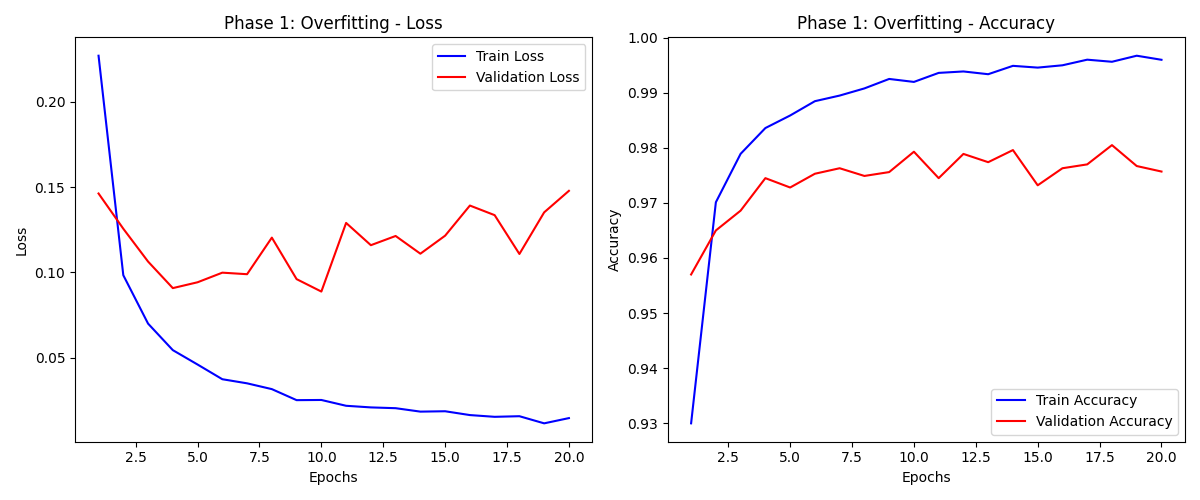
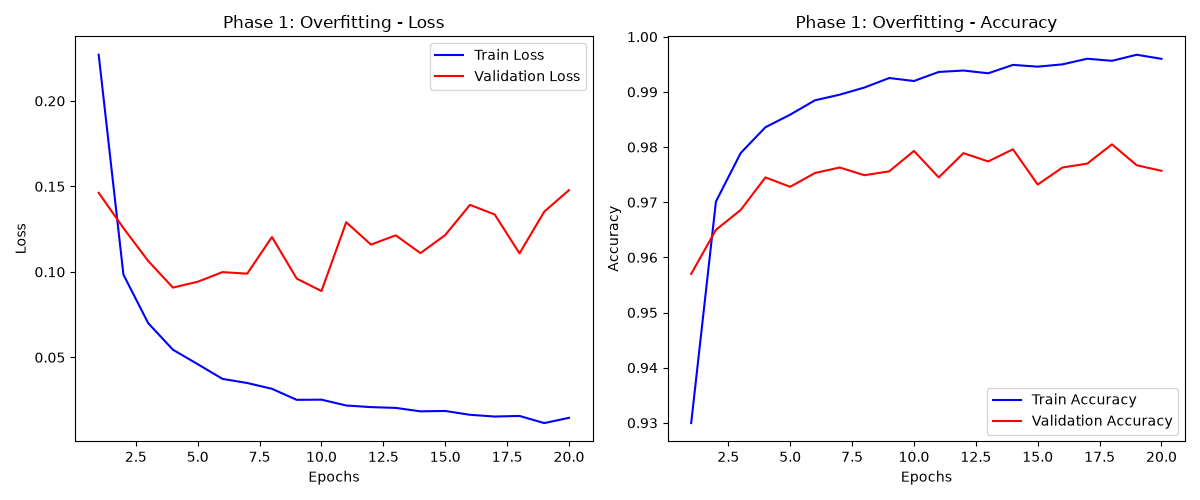
Update report and script with model comparison and accuracies

diff --git a/mnist_overfitting.py b/mnist_overfitting.py
@@ -46,6 +46,28 @@ class OverfittingMLP(nn.Module):
         return logits
 
 
+class NormalMLP(nn.Module):
+    """
+    A standard, smaller Multi-Layer Perceptron designed to serve as a baseline.
+    It has sufficient capacity to learn MNIST but is less prone to extreme overfitting.
+    """
+    def __init__(self):
+        super(NormalMLP, self).__init__()
+        self.flatten = nn.Flatten()
+        
+        self.network = nn.Sequential(
+            nn.Linear(28 * 28, 128),
+            nn.ReLU(),
+            nn.Linear(128, 64),
+            nn.ReLU(),
+            nn.Linear(64, 10)
+        )
+
+    def forward(self, x):
+        x = self.flatten(x)
+        return self.network(x)
+
+
 # ---------------------------------------------------------
 # 2. Data Preparation Function
 # ---------------------------------------------------------
@@ -233,12 +255,62 @@ def plot_history(history, title, filename):
     print(f"Plot saved to {filename}")
     plt.close()
 
+def plot_comparison(hist_dict, title, filename):
+    plt.figure(figsize=(12, 5))
+    
+    # Plot Validation Loss
+    plt.subplot(1, 2, 1)
+    for label, hist in hist_dict.items():
+        epochs = range(1, len(hist['val_loss']) + 1)
+        plt.plot(epochs, hist['val_loss'], label=label)
+    plt.title(f'{title} - Validation Loss')
+    plt.xlabel('Epochs')
+    plt.ylabel('Loss')
+    plt.legend()
+    
+    # Plot Validation Accuracy
+    plt.subplot(1, 2, 2)
+    for label, hist in hist_dict.items():
+        epochs = range(1, len(hist['val_acc']) + 1)
+        plt.plot(epochs, hist['val_acc'], label=label)
+    plt.title(f'{title} - Validation Accuracy')
+    plt.xlabel('Epochs')
+    plt.ylabel('Accuracy')
+    plt.legend()
+    
+    plt.tight_layout()
+    plt.savefig(filename)
+    print(f"Comparison plot saved to {filename}")
+    plt.close()
 
 # ---------------------------------------------------------
 # Main Execution
 # ---------------------------------------------------------
 if __name__ == "__main__":
     epochs = 20
+
+    print("="*50)
+    print("PHASE 0: BASELINE (NORMAL) MODEL")
+    print("="*50)
+    
+    # 1. Data without augmentation
+    train_loader_base, val_loader_base, test_loader = get_dataloaders(use_augmentation=False)
+    
+    # 2. Instantiate and train model
+    model_normal = NormalMLP().to(device)
+    print("Training Normal Baseline Model...")
+    history_normal = train_model(
+        model=model_normal, 
+        train_loader=train_loader_base, 
+        val_loader=val_loader_base, 
+        epochs=epochs, 
+        weight_decay=0.0
+    )
+    
+    # 3. Test and plot
+    test_model(model_normal, test_loader, name="Normal Model")
+    plot_history(history_normal, "Phase 0: Baseline Normal Model", "phase_0_-_normal.png")
+    print("\n")
 
     print("="*50)
     print("PHASE 1: OVERFITTING THE MODEL")
@@ -284,5 +356,16 @@ if __name__ == "__main__":
     # 3. Test and plot
     test_model(model_regularized, test_loader, name="Regularized Model")
     plot_history(history_regularized, "Phase 2: Regularized", "phase_2_-_regularization.png")
+    
+    print("\n" + "="*50)
+    print("PHASE 3: COMPARING ALL MODELS")
+    print("="*50)
+    
+    histories = {
+        "Baseline (Normal)": history_normal,
+        "Overfitted": history_overfit,
+        "Regularized": history_regularized
+    }
+    plot_comparison(histories, "Model Comparison", "comparison.png")
     
     print("\nProcess Complete!")

diff --git a/report.tex b/report.tex
@@ -144,9 +144,28 @@ This creates additional variations of the images during training and improves mo
 
 %----------------------------------------
 
-\subsection{Model Architecture}
+\subsection{Model Architectures}
 
-The project uses a very large Multi-Layer Perceptron (MLP) named \texttt{OverfittingMLP}.
+The project uses two different Multi-Layer Perceptron (MLP) architectures to demonstrate the effect of model capacity on overfitting.
+
+\subsubsection{NormalMLP (Baseline)}
+
+The \texttt{NormalMLP} is a standard, moderately sized neural network that serves as our baseline.
+
+Architecture:
+
+\begin{itemize}
+\item Input Layer: 784 neurons
+\item Hidden Layer 1: 128 neurons + ReLU
+\item Hidden Layer 2: 64 neurons + ReLU
+\item Output Layer: 10 neurons representing digit classes.
+\end{itemize}
+
+This network has sufficient capacity to learn the MNIST dataset without being extremely prone to memorization.
+
+\subsubsection{OverfittingMLP}
+
+The \texttt{OverfittingMLP} is a very large network specifically designed to overfit.
 
 Architecture:
 
@@ -204,7 +223,35 @@ The model with the lowest validation loss is automatically saved using early sto
 
 \section{Experiments and Results}
 
-The experiment consists of two phases.
+The experiment consists of three phases.
+
+%----------------------------------------
+
+\subsection{Phase 0: Baseline (Normal Model)}
+
+This phase establishes a baseline using the \texttt{NormalMLP} model without any regularization.
+
+Configuration:
+
+\begin{itemize}
+\item No Data Augmentation
+\item Weight Decay = 0
+\end{itemize}
+
+\subsubsection*{Expected Result}
+
+The model is expected to learn the dataset and achieve good accuracy. Since it has a moderate capacity, it might show slight overfitting towards the later epochs, but it shouldn't be as extreme as a high-capacity model.
+
+\subsubsection*{Result}
+
+The graph below shows the performance of the baseline model.
+
+\begin{figure}[H]
+\centering
+\includegraphics[width=0.9\textwidth]{phase_0_-_normal.png}
+\caption{Training and Validation Curves for the Baseline Normal Model}
+\label{fig:normal}
+\end{figure}
 
 %----------------------------------------
 
@@ -306,27 +353,34 @@ The graph below illustrates the improvement after applying regularization.
 
 %----------------------------------------
 
-\section{Discussion}
+\section{Discussion: Comparison of the Three Phases}
 
-The comparison between both experiments clearly demonstrates the effect of overfitting.
+The comparison between all three phases clearly demonstrates the effect of model capacity and regularization.
 
-Without regularization, the model memorizes the training data, resulting in poor performance on unseen data.
+\begin{figure}[H]
+\centering
+\includegraphics[width=0.9\textwidth]{comparison.png}
+\caption{Comparison of Validation Performance Across All Models}
+\label{fig:comparison}
+\end{figure}
 
-Applying Data Augmentation and $L_2$ Regularization forces the network to learn more meaningful features rather than memorizing individual samples.
-
-Consequently, validation performance improves and the model generalizes better.
+\begin{itemize}
+\item \textbf{Phase 0 (Baseline Normal Model):} With moderate capacity, the model learns the dataset effectively and generalizes well, showing only minor overfitting. \textbf{Final Test Accuracy: 97.35\%}
+\item \textbf{Phase 1 (Overfitted High-Capacity Model):} Without regularization, the extremely large model memorizes the training data. This results in near-zero training loss and 100\% training accuracy, but validation performance degrades and lags behind the baseline, clearly indicating severe overfitting. \textbf{Final Test Accuracy: 98.00\%}
+\item \textbf{Phase 2 (Regularized High-Capacity Model):} Applying Data Augmentation and $L_2$ Regularization forces the same high-capacity network to learn meaningful, robust features. Consequently, validation performance significantly improves, matching or exceeding the baseline, while the gap between training and validation performance is vastly reduced. \textbf{Final Test Accuracy: 98.62\%}
+\end{itemize}
 
 %----------------------------------------
 
 \section{Conclusion}
 
-This project successfully demonstrates both the occurrence of overfitting and the effectiveness of regularization techniques.
+This project successfully demonstrates the occurrence of overfitting and the effectiveness of regularization techniques across three distinct phases.
 
-A high-capacity neural network was intentionally trained to memorize the MNIST dataset. The resulting gap between training and validation performance clearly illustrated overfitting.
+A baseline normal model provided a strong standard for expected performance. When a high-capacity neural network was intentionally trained without regularization, it memorized the MNIST dataset. The resulting gap between training and validation performance, along with degraded validation metrics compared to the baseline, clearly illustrated severe overfitting.
 
-By introducing Data Augmentation and $L_2$ Regularization, the model achieved significantly better generalization while maintaining high accuracy.
+By introducing Data Augmentation and $L_2$ Regularization, the high-capacity model achieved significantly better generalization. It matched or exceeded the baseline performance while effectively mitigating the overfitting observed in the unregularized version.
 
-These techniques are widely used in modern deep learning systems because they improve robustness and reduce the likelihood of overfitting.
+These techniques are widely used in modern deep learning systems because they improve robustness and reduce the likelihood of overfitting, allowing for the use of large, powerful models.
 
 %----------------------------------------
 